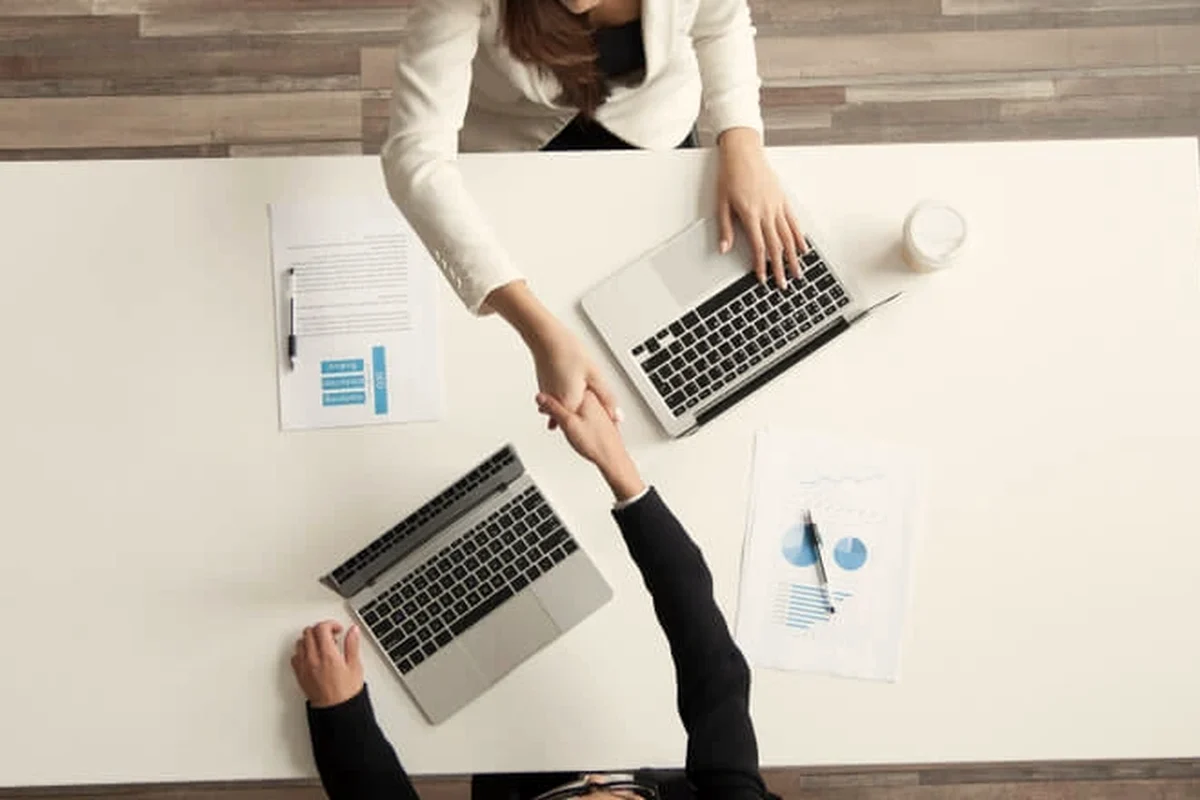
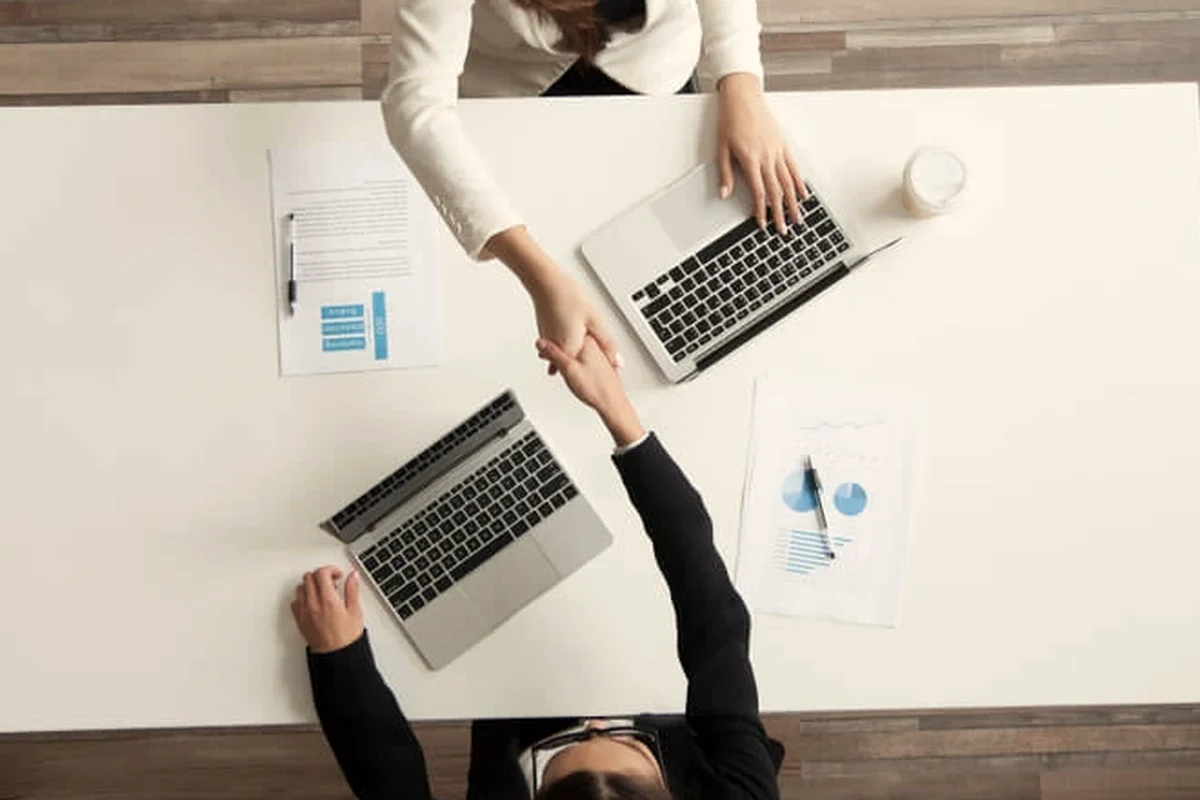
Menu e rodapé: "Publicações" vira "Conteúdo"; capa KYC/KYP mais simétrica
O recorte da capa desce um pouco para mostrar também a pessoa de preto.

Claude-Session: https://claude.ai/code/session_01KLXHQNh4G5yGjxXKH9kFF9

diff --git a/index.html b/index.html
@@ -465,7 +465,7 @@
       <li><a href="#areas">Áreas de atuação</a></li>
       <li><a href="#equipe">Equipe</a></li>
       <li><a href="#faq">FAQ</a></li>
-      <li data-pubs-link><a href="#publicacoes">Publicações</a></li>
+      <li data-pubs-link><a href="#publicacoes">Conteúdo</a></li>
       <li><a href="https://wa.me/5527992928887?text=Ol%C3%A1%2C%20vim%20pelo%20site%20e%20gostaria%20de%20falar%20com%20a%20FNB%20Advocacia." target="_blank" rel="noopener" class="nav-cta">Fale conosco</a></li>
     </ul>
   </nav>
@@ -805,7 +805,7 @@
         <a href="#sobre">Sobre</a>
         <a href="#areas">Áreas de atuação</a>
         <a href="#equipe">Equipe</a>
-        <a href="#publicacoes" data-pubs-link>Publicações</a>
+        <a href="#publicacoes" data-pubs-link>Conteúdo</a>
         <a href="#contato">Contato</a>
       </div>
     </div>
